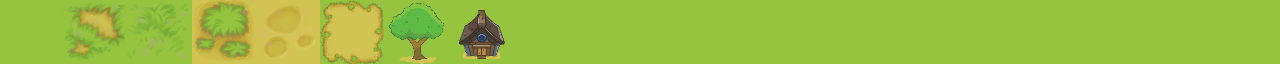
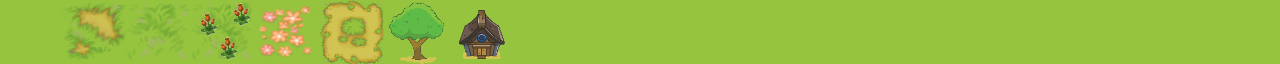
every necromancer game needs flowers

Changed region(s): [[0.125, 0.0, 0.3125, 1.0]]

diff --git a/app/assets/stylesheets/start.css b/app/assets/stylesheets/start.css
@@ -1,7 +1,7 @@
 h2 {
   text-shadow: 1px 1px 1px green,
                2px 2px 1px green;
-  font-size: 2rem;
+  font-size: 3rem;
 
 }
 

diff --git a/lib/backend_na_ten_moment/generate_board.rb b/lib/backend_na_ten_moment/generate_board.rb
@@ -85,8 +85,8 @@ class GenerateBoard
 
   def choose_offset(terrain)
     offset_dictionary = {
-      'grass': {"-64px -0px": 1, "-128px -0px": 3, "-0px -0px": 1},
-      'dirt': {"-192px -0px": 1, "-256px -0px": 1, "-320px -0px": 4},
+      'grass': {"-128px -0px": 12,"-192px -0px": 1,"-256px -0px": 1, "-0px -0px": 1},
+      'dirt': {"-64px -0px": 5, "-320px -0px": 1},
       'tree': {"-384px -0px": 1},
       'house': {"-448px -0px": 1}
     }
@@ -131,7 +131,7 @@ class GenerateBoard
   def terrain_selector
     # 'rock': {'grass': 3,'rock': 1}
     generation_key = {
-      'grass': { 'grass': 6, 'dirt': 1 },
+      'grass': { 'grass': 15, 'dirt': 1 },
       'dirt': { 'dirt': 1, 'grass': 1 }
     }
 
